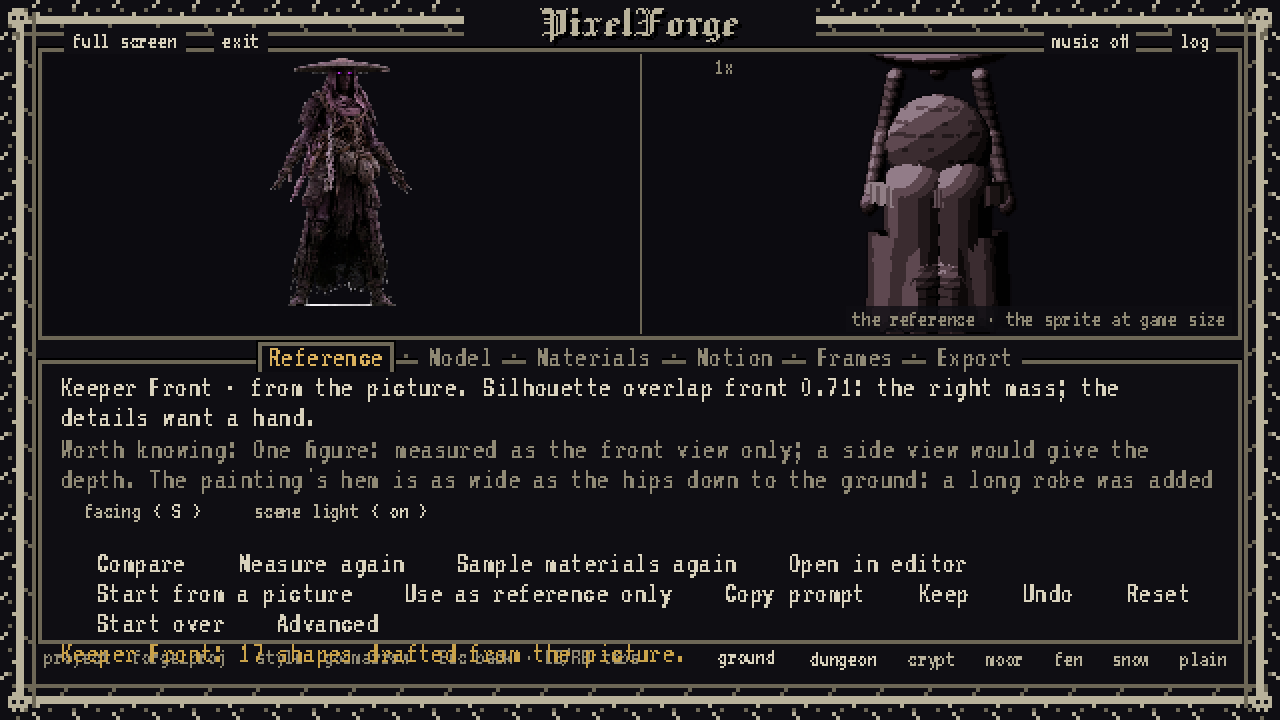
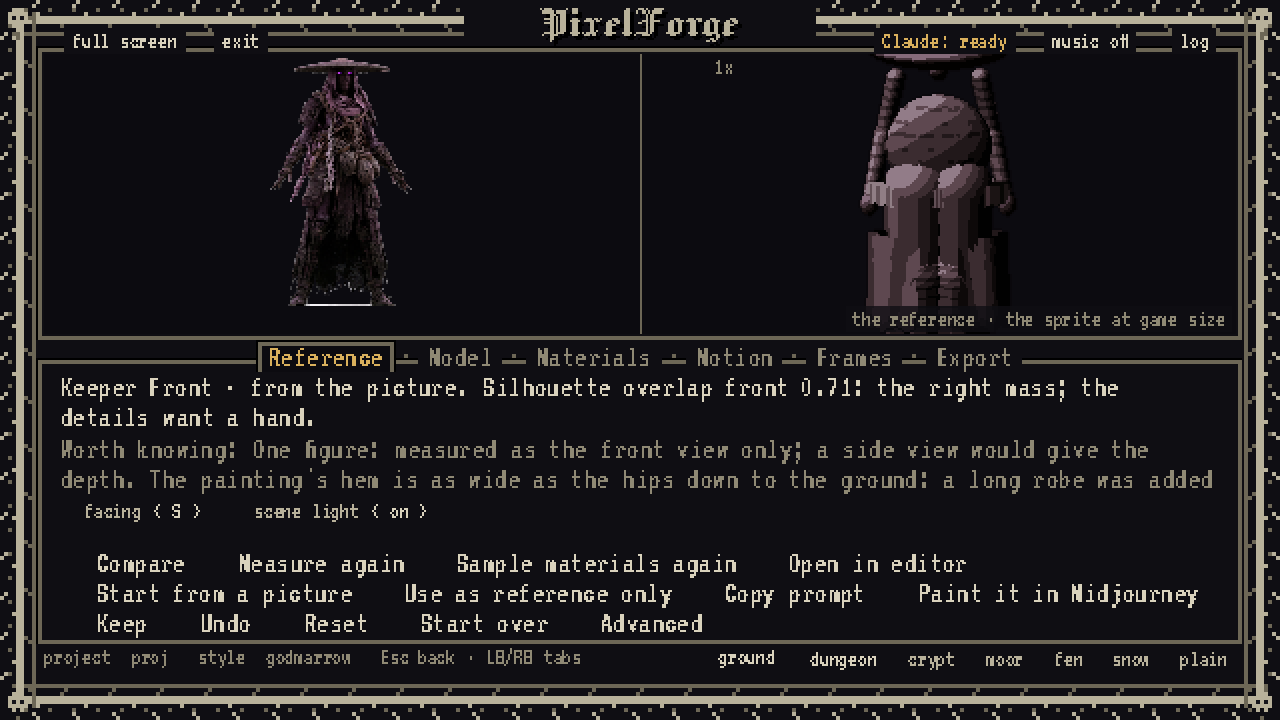
Picture road: screenshots refreshed after the merge, HANDOFF 7.24 verified numbers (273 pytest, scene 21/0)
Claude-Session: https://claude.ai/code/session_01AnujA4r6kzJEaVUmm56NAm

Changed region(s): [[0.0312, 0.8556, 0.5625, 0.9472], [0.7812, 0.7944, 0.9375, 0.8556], [0.6875, 0.0306, 0.7812, 0.0917]]

diff --git a/docs/HANDOFF.md b/docs/HANDOFF.md
@@ -896,14 +896,15 @@ Pictures / Desktop / Documents resolve on Windows with the plain `USERPROFILE` a
 toggles), thumbnails and previews decoded on a worker thread (a big webp never blocks the frame), long names elided
 in the middle, `__pycache__` and dot-files hidden. `driver.gd` `drop A;B` drops several files.
 
-**Verified.** 212 pytest green (`tests/test_picture_road.py` 12: the file-name words and names, the Keeper's front
+**Verified** (after the merge of main's Claude hookup, music, facing fix and Diablo bridge into the track; the
+Reference tab keeps both sides' choices). 273 pytest green (`tests/test_picture_road.py` 12: the file-name words and names, the Keeper's front
 through the road with the project's state and the progress words in order, determinism, the steps again, a synthetic
 three-view sheet named like a Midjourney download, the views as separate files, a held thing beside the body, an
 existing character drafted again, the failures in words, the CLI's progress lines and exits, the docs and the bench);
-`check_scripts.gd` 33/0; `test_editor.gd` 106/0; `forge/tools/picture_road.sh` under xvfb, errors 0: the Keeper's
+`check_scripts.gd` 33/0; `test_editor.gd` 106/0; `test_scene.gd` 21/0; `forge/tools/picture_road.sh` under xvfb, errors 0: the Keeper's
 front dropped on Home ends with 17 shapes on the bench, silhouette overlap front 0.71 ("the right mass; the details
 want a hand"), 4.8 s in the app (2 s headless), `docs/screens/forgeapp/picture_road_{working,reference,compare,model}.png`
-and `file_browser.png` refreshed. A synthetic three-view sheet (1300 x 820) takes about 10 s; everything is under
+and `file_browser.png` refreshed after the merge (the reference shot shows the prompt choices from main beside the road's). A synthetic three-view sheet (1300 x 820) takes about 10 s; everything is under
 the two-minute line. Not done here: a side view of the Keeper (the front alone gives no depth, and the warning says
 so); running the road on a real Midjourney download on Windows (the places and the webp thumbnails are built for it
 and tested under xvfb with a fake home).
